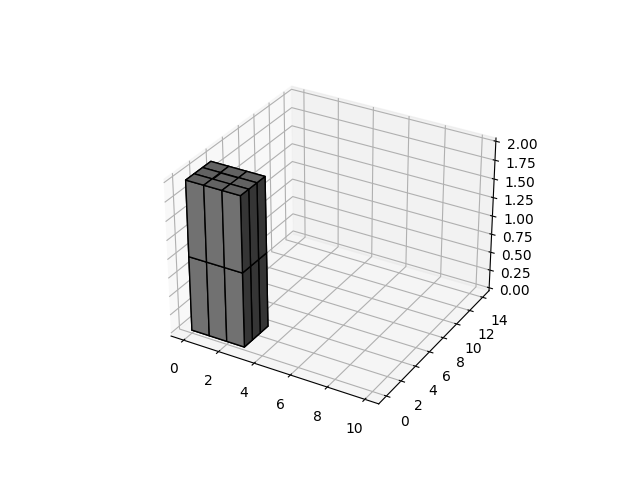
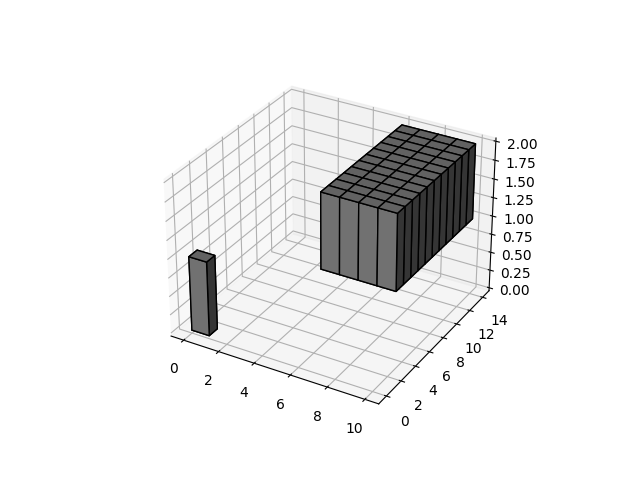
voxel visualization and occupancy metric

Changed region(s): [[0.5, 0.25, 0.75, 0.625], [0.2812, 0.3125, 0.4375, 0.7188]]

diff --git a/mj_envs/mj_envs/envs/hand_manipulation_suite/adroit_v1.py b/mj_envs/mj_envs/envs/hand_manipulation_suite/adroit_v1.py
@@ -37,7 +37,7 @@ class AdroitEnvV1(mujoco_env.MujocoEnv, utils.EzPickle):
             forearm_relative_position= [0, 0.5, 0], # forearm position related to hand (z-value will be flipped when arm faced down)
             reset_mode= "normal",
             knn_k= 1, # k setting
-            voxel_conf= ['2d', 16, 4, False], # 2d/3d, voxelNum, 2d_sep, test_part
+            voxel_conf= ['2d', 0, 0.005, False], # 2d/3d, voxelNum, 2d_sep, test_part
             sensor_obs= False,
             # voxel_num= 280,
             # twod_sep= 2,
@@ -67,9 +67,9 @@ class AdroitEnvV1(mujoco_env.MujocoEnv, utils.EzPickle):
         self.ground_truth_type = ground_truth_type
         self.use_voxel = use_voxel
         self.voxel_type = voxel_conf[0]
-        self.voxel_num = voxel_conf[1]
         self.twod_sep = voxel_conf[2]
         self.test_part = voxel_conf[3]
+        self.voxel_num = int(self.get_voxel_len())
         self.new_voxel_r_factor = new_voxel_r_factor
         self.sensor_obs = sensor_obs
         
@@ -164,6 +164,23 @@ class AdroitEnvV1(mujoco_env.MujocoEnv, utils.EzPickle):
         else:
             is_in_bound = posx > -0.125 and posx < 0.125 and posy > -0.25 and posy < -0.025
         return is_in_bound
+    
+    def get_voxel_len(self):
+        if self.voxel_type == '2d':
+            sep_x, sep_y = 0, 0
+            if self.test_part:
+                sep_x = 0.125 / self.twod_sep
+                sep_y = 0.225 / self.twod_sep
+            else:
+                sep_x = 0.25 / self.twod_sep
+                sep_y = 0.225 / self.twod_sep
+            return math.ceil(sep_x) * math.ceil(sep_y)
+        else:
+            sep_x, sep_y, sep_z = 0, 0, 0
+            sep_x = math.ceil(0.25 / self.twod_sep)
+            sep_y = math.ceil(0.225 / self.twod_sep)
+            sep_z = math.ceil(0.04 / self.twod_sep)
+            return sep_x * sep_y * sep_z
 
     def get_2d_voxel_idx(self, posx, posy):
         # for simple objectobj5(index in obj_list:4) only
@@ -171,36 +188,31 @@ class AdroitEnvV1(mujoco_env.MujocoEnv, utils.EzPickle):
         # center point xy(0, -0.14)
         # corner points (-0.125,-0.25) (-0.125,-0.025) (0.125, -0.25) (0.125, -0.025)
         # test left (0,-0.25) (0,-0.025) (0.125, -0.25) (0.125, -0.025)
-        unit_x, unit_y, idx_x, idx_y = 0, 0, 0, 0
+        sep_x, sep_y, idx_x, idx_y = 0, 0, 0, 0
         if self.test_part:
-            unit_x = 0.125 / self.twod_sep
-            unit_y = 0.225 / self.twod_sep
-            idx_x = math.floor((posx - 0) / unit_x)
-            idx_y = math.floor((posy + 0.25) / unit_y)
+            sep_x = 0.125 / self.twod_sep
+            sep_y = 0.225 / self.twod_sep
+            idx_x = math.floor((posx - 0) / self.twod_sep)
+            idx_y = math.floor((posy + 0.25) / self.twod_sep)
         else:
-            unit_x = 0.25 / self.twod_sep
-            unit_y = 0.225 / self.twod_sep
-            idx_x = math.floor((posx + 0.125) / unit_x)
-            idx_y = math.floor((posy + 0.25) / unit_y)
-        voxel_idx = idx_y * self.twod_sep + idx_x + 1
+            sep_x = 0.25 / self.twod_sep
+            sep_y = 0.225 / self.twod_sep
+            idx_x = math.floor((posx + 0.125) / self.twod_sep)
+            idx_y = math.floor((posy + 0.25) / self.twod_sep)
+        voxel_idx = idx_y * math.ceil(sep_x) + idx_x + 1
         return voxel_idx
 
     def get_voxel_idx(self, posx, posy, posz):
         # currently only suitable for obj4
-        posx = max(min(posx, 0.1 - 1e-4), -0.1)
-        posy = max(min(posy, 0.16 - 1e-4), -0.12)
         posz = max(min(posz, 0.2 - 1e-4), 0.16)
-        # unit: 0.01 x 0.01 x 0.01
-        # confA: 1x1x1 -> 20x28x4
-        # confB: 2x2x2 -> 10x14x2
-        unit = 0.02
-        # confC: 4x4x4 -> 5x7x1
-        # unit = 0.04
-        idx_x = math.floor((posx + 0.1) / unit)
-        idx_y = math.floor((posy + 0.12) / unit)
-        idx_z = math.floor((posz - 0.16) / unit)
-        # confB
-        voxel_idx = idx_z * 10 * 14 + idx_y * 10 + idx_x
+        sep_x, sep_y, sep_z, idx_x, idx_y, idx_z = 0, 0, 0, 0, 0, 0
+        sep_x = 0.25 / self.twod_sep
+        sep_y = 0.225 / self.twod_sep
+        sep_z = 0.04 / self.twod_sep
+        idx_x = math.floor((posx + 0.125) / self.twod_sep)
+        idx_y = math.floor((posy + 0.25) / self.twod_sep)
+        idx_z = math.floor((posz - 0.16) / self.twod_sep)
+        voxel_idx = idx_z * math.ceil(sep_x) * math.ceil(sep_y) + idx_y * math.ceil(sep_x) + idx_x
         return voxel_idx
 
     def get_basic_reward(self, posA, posB):
@@ -359,7 +371,7 @@ class AdroitEnvV1(mujoco_env.MujocoEnv, utils.EzPickle):
                     if self.voxel_array[min(idx, self.voxel_num-1)] == 0: # new voxel touched
                         new_voxel_r += 1
                         self.voxel_array[min(idx, self.voxel_num-1)] = 1
-
+        voxel_occupancy = len(np.where(np.array(self.voxel_array)>0)) / len(np.array(self.voxel_array))
         reward += self.palm_r_factor * palm_r
         reward += self.untouch_p_factor * untouched_p
         reward += self.chamfer_r_factor * chamfer_r
@@ -381,6 +393,8 @@ class AdroitEnvV1(mujoco_env.MujocoEnv, utils.EzPickle):
             total_reward_r= reward,
             voxel_array= np.array(self.voxel_array),
             chamfer_loss_p= chamfer_loss,
+            resolution= self.twod_sep,
+            occupancy= voxel_occupancy,
         )
         return self.get_obs(), reward, done, info
 

diff --git a/mjrl/utils/train_agent.py b/mjrl/utils/train_agent.py
@@ -1,6 +1,6 @@
 import logging
 logging.disable(logging.CRITICAL)
-
+import math
 from tabulate import tabulate
 from mjrl.utils.make_train_plots import make_train_plots
 from mjrl.utils.gym_env import GymEnv
@@ -189,6 +189,26 @@ def train_agent(job_name, agent,
                 # ax.scatter(pc_frame[:, 0], pc_frame[:, 1], pc_frame[:, 2], c=pc_frame[:, 2], cmap='viridis', linewidth=0.5)
                 ax.scatter(pc_frame[:, 0], pc_frame[:, 1], cmap='viridis', linewidth=0.5)
                 plt.savefig("{}.png".format('2dpointcloud' + str(i)))
+                plt.close()
+                # 3d voxel visualization
+                voxel_array = np.array(env_infos[-1]["voxel_array"])
+                voxels = None
+                resolution = env_infos[-1]["resolution"]
+                if len(voxel_array) > 0:
+                    sep_x = math.ceil(0.25 / resolution)
+                    sep_y = math.ceil(0.225 / resolution)
+                    sep_z = math.ceil(0.04 / resolution)
+                    x, y, z = np.indices((sep_x, sep_y, sep_z))
+                    index_list = np.where(voxel_array>0)
+                    for index in index_list:
+                        idx_z = math.floor((index+1) / (sep_x * sep_y))
+                        idx_y = math.floor((index+1-idx_z * sep_x * sep_y) / sep_x)
+                        idx_x = index + 1 - idx_z * sep_x * sep_y - idx_y * sep_x
+                        cube = (x < idx_x + 1) & (y < idx_y + 1) & (z < idx_z + 1) & (x >= idx_x) & (y >= idx_y) & (z >= idx_z)
+                        voxel = (voxel + cube) if voxel is not None else cube
+                ax = plt.figure().add_subplot(projection='3d')
+                ax.voxels(voxels, facecolors='grey', edgecolor='k')
+                plt.savefig("{}.png".format('voxel' + str(i)))
                 plt.close()
                 exptools.logging.logger.record_image("rendered", video[-1], i)
                 exptools.logging.logger.record_gif("rendered", video, i)

diff --git a/examples/launch_train_adroit_yj.py b/examples/launch_train_adroit_yj.py
@@ -67,8 +67,8 @@ default_config = dict(
         horizon= 150, 
         num_traj = 150,
         num_samples = 50000, # has precedence, used with sample_mode = 'samples' 50000
-        save_freq = 5,
-        evaluation_rollouts = 5,
+        save_freq = 3,
+        evaluation_rollouts = 3,
         plot_keys = ['stoc_pol_mean'],
         visualize_kwargs = dict(
             horizon=150,
@@ -131,10 +131,8 @@ def main(args):
 
     # voxel_conf= ['2d', 16, 4, False]
     values = [
-        [0, 0, 1, 0.5, 5, ['2d', 64, 8, False], False],
-        # [0, 0, 1, 0.5, 5, ['2d', 100, 10, False]],
-        # [0, 0, 1, 0.5, 5, ['2d', 144, 12, False]],
-        [0, 0, 1, 0.5, 5, ['2d', 256, 16, False], False],
+        [0, 0, 1, 0.5, 5, ['3d', 0, 0.005, False], False],
+        [0, 0, 1, 0.5, 5, ['3d', 0, 0.01, False], False],
     ]
     dir_names = ["cf{}_knn{}_vr{}_lstd{}_knnk{}_vconf{}_sensor{}".format(*tuple(str(vi) for vi in v)) for v in values]
     keys = [

diff --git a/draw_box.py b/draw_box.py
@@ -7,12 +7,12 @@ import numpy as np
 # 2 2 2
 x, y, z = np.indices((10, 14, 2))
 
-# draw cuboids in the top left and bottom right corners, and a link between
-# them
-cube1 = (x < 3) & (y < 3) & (z < 3)
-
+# draw cuboids in the top left and bottom right corners, and a link between them
+# cube = (x < idx_x + 1) & (y < idx_y + 1) & (z < idx_z + 1) & (x >= idx_x) & (y >= idx_y) & (z >= idx_z)
+cube1 = (x<1) & (y <1) & (z<1)
+cube2 = (x>5) & (y>2) & (z>=1)
 # combine the objects into a single boolean array
-voxels = cube1
+voxels = cube1 + cube2
 
 # set the colors of each object
 

diff --git a/examples/launch_agent_eval.py b/examples/launch_agent_eval.py
@@ -117,10 +117,10 @@ def main(args):
     variant_levels.append(VariantLevel(keys, values, dir_names))
 
     values = [
-        ["action"],
+        # ["action"],
         # ["policy"],
         # ["agent"],
-        # ["explore"],
+        ["explore"],
     ]
     dir_names = ["{}".format(*v) for v in values]
     keys = [("sample_method", ), ]
